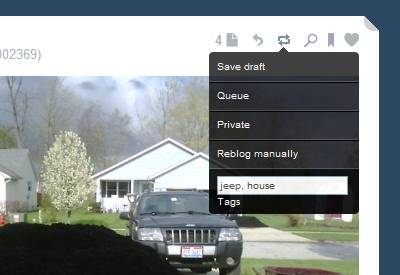
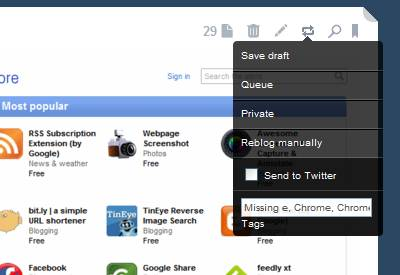
FF add to twitter checkbox

diff --git a/firefox/missinge/data/betterReblogs/betterReblogs_dash.js b/firefox/missinge/data/betterReblogs/betterReblogs_dash.js
@@ -114,6 +114,7 @@ function doReblog(item,replaceIcons) {
    tags = tags.replace(/\s*,\s*/g,',').replace(/,$/,'')
             .replace(/^\s*/,'');
    var mode = reblogMode[type];
+   var twitter = jQuery('#MissingE_quick_reblog_twitter input').is(':checked');
    startReblog(postId,replaceIcons);
    jQuery.ajax({
       type: "GET",
@@ -163,6 +164,12 @@ function doReblog(item,replaceIcons) {
          params["post[tags]"] = this.tags;
          params["post[state]"] = this.mode;
          params["channel_id"] = '0';
+         if (!twitter) {
+            delete params["send_to_twitter"];
+         }
+         else {
+            params["send_to_twitter"] = "on";
+         }
          delete params["preview_post"];
          jQuery.ajax({
             type: 'POST',
@@ -219,6 +226,13 @@ function MissingE_betterReblogs_dash_doStartup(extensionURL, passTags,
                      fr: "Tags",
                      it: "Tag",
                      ja: "タグ"
+      };
+      var twitterText = {
+                     en: "Send to Twitter",
+                     de: "Auf Twitter posten",
+                     fr: "Publier sur Twitter",
+                     it: "Invia a Twitter",
+                     ja: "投稿をTwitterにも送信"
       };
       var reblogOptions = [{text: {
                                     en: "Save draft",
@@ -294,6 +308,11 @@ function MissingE_betterReblogs_dash_doStartup(extensionURL, passTags,
       }
       txt += '<span>' +
                '<div class="user_menu_list_item has_tag_input">' +
+               '<div id="MissingE_quick_reblog_twitter">' +
+               '<input type="checkbox" /> ' + twitterText[lang] +
+               '</div></div></span>' +
+               '<span>' +
+               '<div class="user_menu_list_item has_tag_input">' +
                '<div id="MissingE_quick_reblog_tags">' +
                '<input type="text" /><br />' + tagsText[lang] +
                '</div></div></span>';
@@ -365,7 +384,16 @@ function MissingE_betterReblogs_dash_doStartup(extensionURL, passTags,
          return false;
       });
 
-      qr.find('a').click(function(){doReblog(this,replaceIcons);});
+      qr.find('#MissingE_quick_reblog_twitter input').mousedown(function() {
+         this.checked = !this.checked;
+         return false;
+      }).click(function() {
+         return false;
+      });
+      qr.find('a').click(function(e){
+         if (e.target.tagName === 'INPUT') { return false; }
+         doReblog(this,reblog_settings.replaceIcons);
+      });
    }
 }
 

diff --git a/firefox/missinge/data/betterReblogs/quickReblog.css b/firefox/missinge/data/betterReblogs/quickReblog.css
@@ -29,14 +29,21 @@ position:absolute;
 width:150px !important;
 }
 
-#MissingE_quick_reblog:hover, 
-.MissingE_quick_reblog_tags_inputting {
+#MissingE_quick_reblog:hover {
 display:block;
+}
+
+.MissingE_quick_reblog_tags_inputting {
+display:block !important;
 }
 
 #MissingE_quick_reblog #MissingE_quick_reblog_tags input {
 font:normal 10px Helvetica,sans-serif !important;
 width:95%;
+}
+
+#MissingE_quick_reblog #MissingE_quick_reblog_twitter input {
+vertical-align:-2px;
 }
 
 .MissingE_quick_reblogging_icon, 
